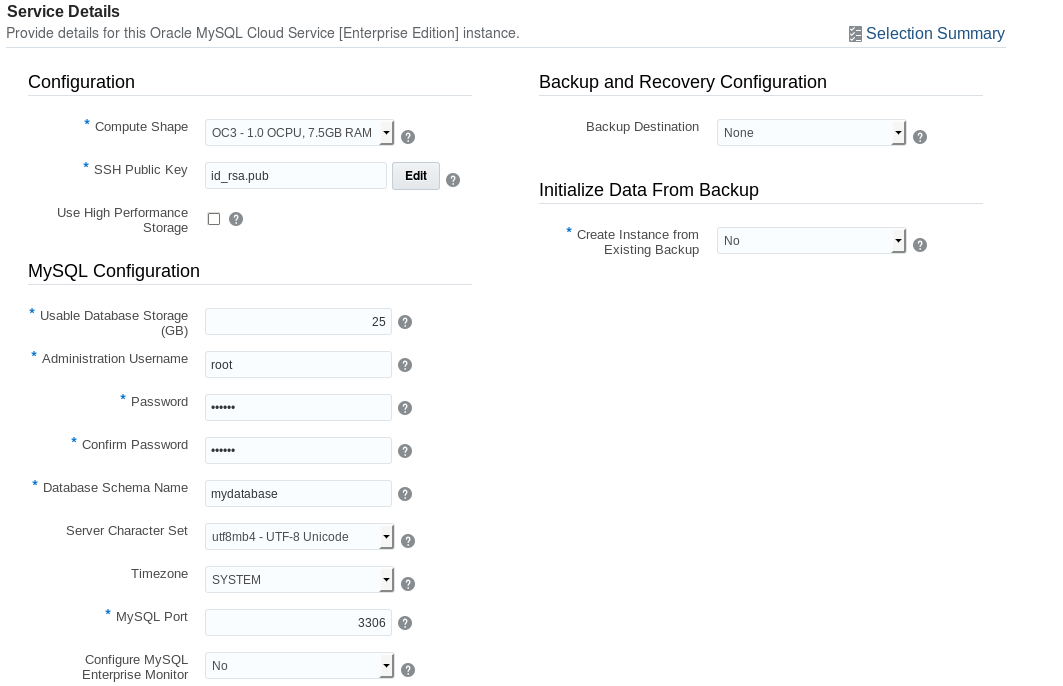
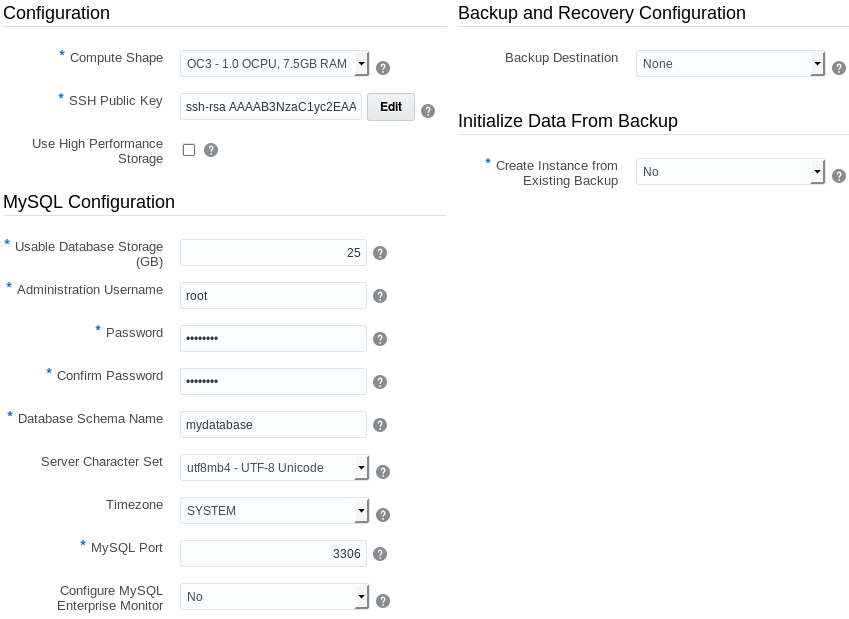
updated MySQL OBE

diff --git a/ziplabs/mysql-instance/README.md b/ziplabs/mysql-instance/README.md
@@ -16,27 +16,6 @@ When you create an instance of Oracle MySQL Cloud Service, you must associate a 
 
 ### What Do You Need? ###
 - An Oracle Cloud account
-- [Git](https://git-scm.com/downloads) (Git Bash shell)
-
-## Create an SSH Key Pair ##
-
-<ol>
-<li>Open a Git bash command-line window (or terminal in Linux).</li>
-<li>Generate the SSH key pair: 
-
-<pre><code>ssh-keygen -t rsa -N "<i>passphrase</i>" -b "<i>2048</i>" -C "<i>key comment</i>" -f <i>path/root_name</i></code></pre>
-<table><thead><tr>
-<th>Argument</th><th>Description</th>
-</tr></thead>
-<tbody>
-<tr><td><code>-t rsa</code> </td><td> Use the RSA algorithm</td></tr>
-<tr><td><code>-N "<i>passphrase</i>"</code> </td><td> Passphrase to protect the use of the key (like a password). If you don't want to set a passphrase, don't enter anything between the quotation marks. <strong>Note</strong>: Although a passphrase isn't required, you should specify one as a security measure to protect the private key from unauthorized use.</td></tr>
-<tr><td><code>-b "<i>2048</i>"</code> </td><td> Generate a 2048-bit key (default). A minimum of 2048 bits is recommended for SSH-2 RSA.</td></tr>
-<tr><td><code>-C "<i>key commment</i>"</code> </td><td> A name to identify the key.</td></tr>
-<tr><td><code>-f <i>path/root_name</i></code> </td><td> The location where the key pair is saved and the root name for the files. For example, if you make <code>id_rsa</code> the root name, then the name of the private key is <code>id_rsa</code>, and the name of the public is <code>id_rsa.pub</code>.</td></tr>
-</tbody>
-</table>
-</li></ol>
 
 ## Create an Instance of Oracle MySQL Cloud Service ##
 1. In a web browser, go to [https://cloud.oracle.com/home](https://cloud.oracle.com/home) and click **Sign In**.
@@ -53,14 +32,17 @@ When you create an instance of Oracle MySQL Cloud Service, you must associate a 
      * **Instance Name**: `TestDB`
      * **Description**: (optional)
      * **Notification Email**: (default)
-     * **Region:**: No Preference
+     * **Region**: No Preference
 
     ![mysql04.png](img/mysql04.png)
 
     [Description of the illustration mysql04.png](files/mysql04.txt)
-12. Enter or select the following information, and then click **Next**:
+12. Generate the SSH Public Key
+    * Beside the **SSH Public Key** field, click **Edit**. 
+    * Select **Create a New Key**, and then click **Enter**. A message appears to confirm that your SSH Key pair was successfully created. 
+    * Click **Download**, save the file, and then click **Done**.
+13. Enter or select the following information, and then click **Next**:
      * **Compute Shape: OC3-1.0 OCPU, 7.5GB RAM**
-     *  **SSH Public Key** (Click Edit and browse to the location of your public key.)
      * **Usable Database Storage(GB)**: 25
      * **Administration User**: root
      * **Administration Password** (Be sure to use a password with at least 8 characters, one upper case character, one number and one special character.)
@@ -74,12 +56,12 @@ When you create an instance of Oracle MySQL Cloud Service, you must associate a 
     ![mysql05.png](img/mysql05.png)
 
     [Description of the illustration mysql05.png](files/mysql05.txt)  
-13. Review the details of your instance and then click **Create**.
+14. Review the details of your instance and then click **Create**.
 
     ![mysql06.png](img/mysql06.png)
 
     [Description of the illustration mysql06.png](files/mysql06.txt) 
-14. Wait until the instance is created.
+15. Wait until the instance is created.
 
     ![mysql07.png](img/mysql07.png)
 
